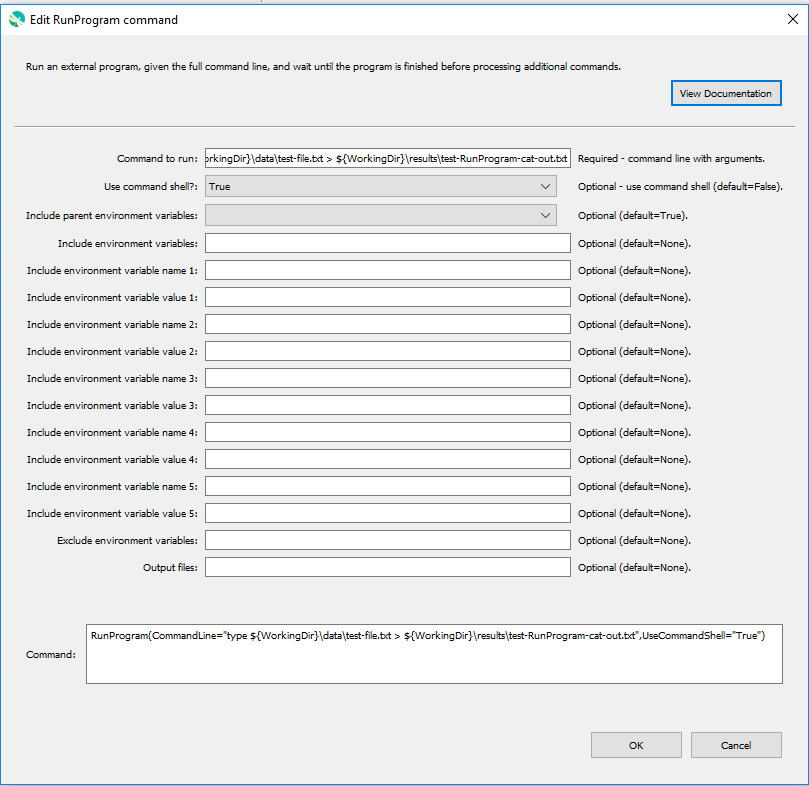
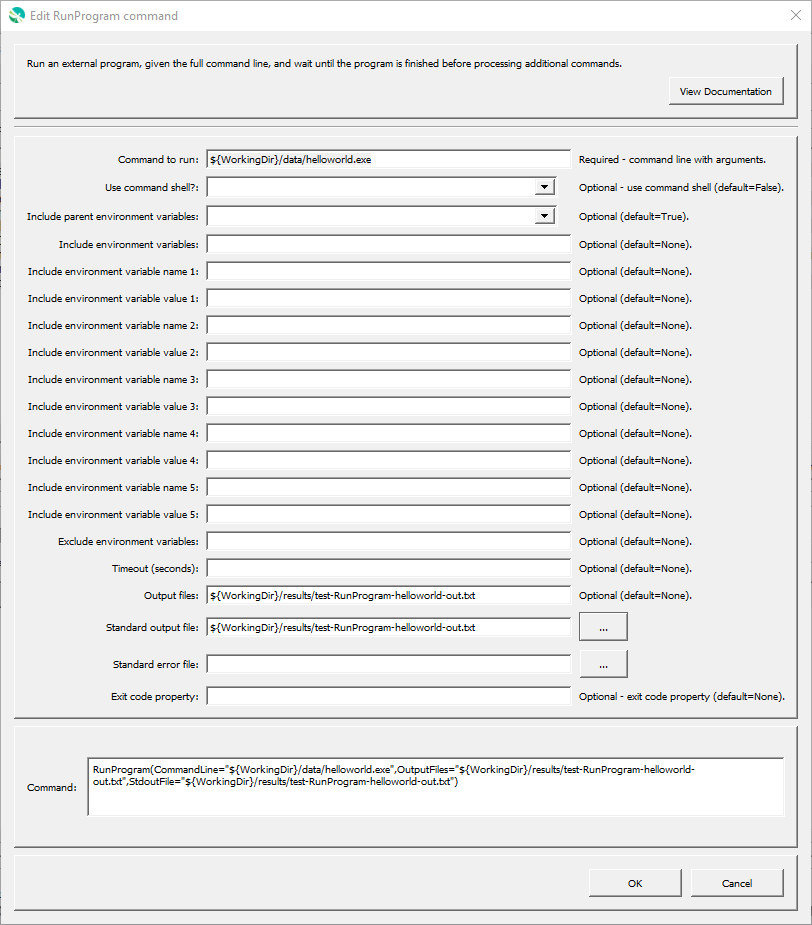
Fix RunProgram to work properly, issue #35

Changed region(s): [[0.0, 0.0, 1.0, 1.0], [0.0309, 0.0611, 0.7726, 0.0916]]

diff --git a/mkdocs-project/docs/command-ref/RunProgram/RunProgram.md b/mkdocs-project/docs/command-ref/RunProgram/RunProgram.md
@@ -11,18 +11,16 @@
 
 ## Overview ##
 
-The `RunProgram` command runs an external program, given the full command line,
+The `RunProgram` command runs a command line program, given the full command line,
 and waits until the program is finished before processing additional commands.
 The GeoProcessor command will indicate a failure if the exit status from the program being run is non-zero.
-It is therefore possible to call an external program that reads and/or writes data formats to
+This command is useful for running an external program that
 perform processing that the GeoProcessor cannot.
-One use of this command is to create a calibration environment where a model is run and then the
-results are read and displayed using the GeoProcessor.
-It is also useful to use the GeoProcessor’s testing features to implement quality control checks for other software tools.
+It is also useful to use the GeoProcessor’s testing features to implement quality control checks for software.
 
 The GeoProcessor internally maintains a working folder (directory) that is used to convert relative paths to absolute paths to locate files.
 The working folder is by default the location of the last command file that was opened.
-The external program may assume that the working folder is the location from which GeoProcessor software was started
+However, the external program may assume that the working folder is the location from which GeoProcessor software was started
 (or the installation location if started from a menu).
 Therefore, it may be necessary to run the GeoProcessor in batch mode from the directory where the external
 software’s data files exist, use absolute paths to files, or use the `${WorkingDir}` property in the command line.
@@ -31,13 +29,14 @@ Limitations of the command are as follows and will be addressed in future softwa
 
 * There is currently no way to handle double quotes in the command line.
 * The command line must not exceed the length allowed by the operating system.
-* There is currently no `Timeout` parameter.
-* There is currently no way to capture standard output or standard error from the command.
+
+If the command line contains `>`, `<`, `|` or other special characters used by a shell,
+then specify `UseCommandShell=True`.
 
 ## Command Editor ##
 
 The following dialog is used to edit the command and illustrates the command syntax
-when running a program in a command shell configured with environment variables.
+when running a program directly (no command shell):
 
 **<p style="text-align: center;">
 ![RunProgram](RunProgram.png)
@@ -60,13 +59,18 @@ Command Parameters
 
 | **Parameter**&nbsp;&nbsp;&nbsp;&nbsp;&nbsp;&nbsp;&nbsp;&nbsp;&nbsp;&nbsp;&nbsp;&nbsp;&nbsp;&nbsp;&nbsp;&nbsp;&nbsp;&nbsp;&nbsp;&nbsp;&nbsp;&nbsp;&nbsp;&nbsp;&nbsp;&nbsp; | **Description** | **Default**&nbsp;&nbsp;&nbsp;&nbsp;&nbsp;&nbsp;&nbsp;&nbsp;&nbsp;&nbsp; |
 | --------------|-----------------|----------------- |
-| `CommandLine`<br>**required** | The full program command line, with arguments.  If the program executable is found in the `PATH` environment variable, then only the program name needs to be specified.  Otherwise, specify an absolute path to the program or run the GeoProcessor from a command shell in the same directory.  The command string can contain redirection and pipe characters.<br><br>The `${WorkingDir}` property can be used in the command line to indicate the working directory (command file location) when specifying file names.  Other `${Property}` names can also be used. | None - must be specified. |
+| `CommandLine`<br>**required** | The full program command line, with arguments.  If the program executable is found in the `PATH` environment variable, then only the program name needs to be specified.  Otherwise, specify an absolute path to the program or run the GeoProcessor from a command shell in the same directory.  The command string can contain redirection and pipe characters.<br><br>The `${WorkingDir}` property can be used in the command line to indicate the working directory (command file location) when specifying file names.  Use `${WorkingDirNative} to preserve the native operting system folder separator characters.  Other `${Property}` names can also be used. | None - must be specified. |
 | `UseCommandShell` | If specified as `True`, the program will be run using a command shell.  A command shell is needed if the program is a script (batch file), a shell command, or uses `>`, `|`, etc. | `False`. |
 | `IncludeParentEnvVars` | Indicate whether the parent environment variables should be passed to the program run environment by specifying (`True`) or ignore all parent environment variable (`False`).  Other parameters can be used to add additional environment variables or remove environment variables from the program run environment. | `True`. |
 | `IncludeEnvVars` | Specify environment variables to be defined for the program run environment, using format `EnvVarName1=EnvVarValue1;EnvVarName2=EnvVarValue2;...`.  Other parameters can be used to add additional environment variables or remove environment variables from the program run environment. | |
 | `ExcludeEnvVars` | Specify environment variables to be removed from the program run environment, using format `EnvVarName1,EnvVarName2,...`.  This parameter is processed after the parameters that define environment variables in the run environment.  Other parameters can be used to add additional environment variables or remove environment variables from the program run environment. | |
-| `IncludeEnvVarName1` ... `IncludeEnvVarName5` | Specify the name of as single environment variable to be defined for the program run environment.  Use this parameter with corresponding `IncludeEnvVarValue1` (through `IncludeEnvVarValue5`) as an alternative to the `IncludeEnvVars` parameter includes formatting that is difficult to parse due to special characters, etc.  Other parameters can be used to add additional environment variables or remove environment variables from the program run environment. |  |
-| `IncludeEnvVarValue1` ... `IncludeEnvVarValue5` | Specify the value of as single environment variable to be defined for the program run environment.  Use this parameter with corresponding `IncludeEnvVarName1` (through `IncludeEnvVarName5`) as an alternative to the `IncludeEnvVars` parameter includes formatting that is difficult to parse due to special characters, etc.  Other parameters can be used to add additional environment variables or remove environment variables from the program run environment. |  |
+| `IncludeEnvVarName1` ... `IncludeEnvVarName5` | **These parameters my be replaced with a dictionary parameter.** Specify the name of as single environment variable to be defined for the program run environment.  Use this parameter with corresponding `IncludeEnvVarValue1` (through `IncludeEnvVarValue5`) as an alternative to the `IncludeEnvVars` parameter includes formatting that is difficult to parse due to special characters, etc.  Other parameters can be used to add additional environment variables or remove environment variables from the program run environment. | |
+| `IncludeEnvVarValue1` ... `IncludeEnvVarValue5` | **These parameters my be replaced with a dictionary parameter.** Specify the value of as single environment variable to be defined for the program run environment.  Use this parameter with corresponding `IncludeEnvVarName1` (through `IncludeEnvVarName5`) as an alternative to the `IncludeEnvVars` parameter includes formatting that is difficult to parse due to special characters, etc.  Other parameters can be used to add additional environment variables or remove environment variables from the program run environment. | |
+| `Timeout` | Timeout in seconds. | No timeout. |
+| `OutputFiles` | Names of output files, separated by commas, to list in ***Results***.  Can use ${Property} notation. | |
+| `StdoutFile` | File to capture standard output:<ul><li>Path to output file - to output to the specified file</li><li>`DEVNULL` - redirect to `/dev/null` (absorb)</li><li>`logfile` - append to the log file</li></ul> | Output to terminal window. |
+| `StderrFile` | File to capture standard error:<ul><li>Path to output file - to output to the specified file</li><li>`DEVNULL` - redirect to `/dev/null` (absorb)</li><li>`STDOUT` - append to standard output</li><li>`logfile` - append to the log file</li></ul> | Output to terminal window. |
+| `ExitCodeProperty` | Property name to set to the GDAL program exit code. | |
 
 ## Examples ##
 
@@ -77,3 +81,5 @@ Command Parameters
 ## See Also ##
 
 * [`RunCommands`](../RunCommands/RunCommands.md) command
+* [`RunGdalProgram`](../RunGdalProgram/RunGdalProgram.md) command
+* [`RunOgrProgram`](../RunOgrProgram/RunOgrProgram.md) command

diff --git a/mkdocs-project/docs/appendix-release-notes/release-notes-1.md b/mkdocs-project/docs/appendix-release-notes/release-notes-1.md
@@ -14,6 +14,8 @@ areas to the left and right of the main command list.
 * ![bug](bug.png) [1.3.0] Fix issues caused by the GeoProcessor run scripts not handling QGIS long term release.
 The runs scripts now handle OSGeo4W and standalone QGIS installers and detect long term release folders
 for Python modules.  The QGIS release is also checked when running in development and deployed environments.
+* ![bug](bug.png) [1.3.0] Fix [`RunProgram`](../command-ref/RunProgram/RunProgram.md) to run programs
+directly and with command shell.
 * ![change](change.png) [1.3.0] Significant overall cleanup of code to implement more robust design.
 Error handling is more robust.
 * ![change](change.png) [1.3.0] Improve command editor user interactions.
